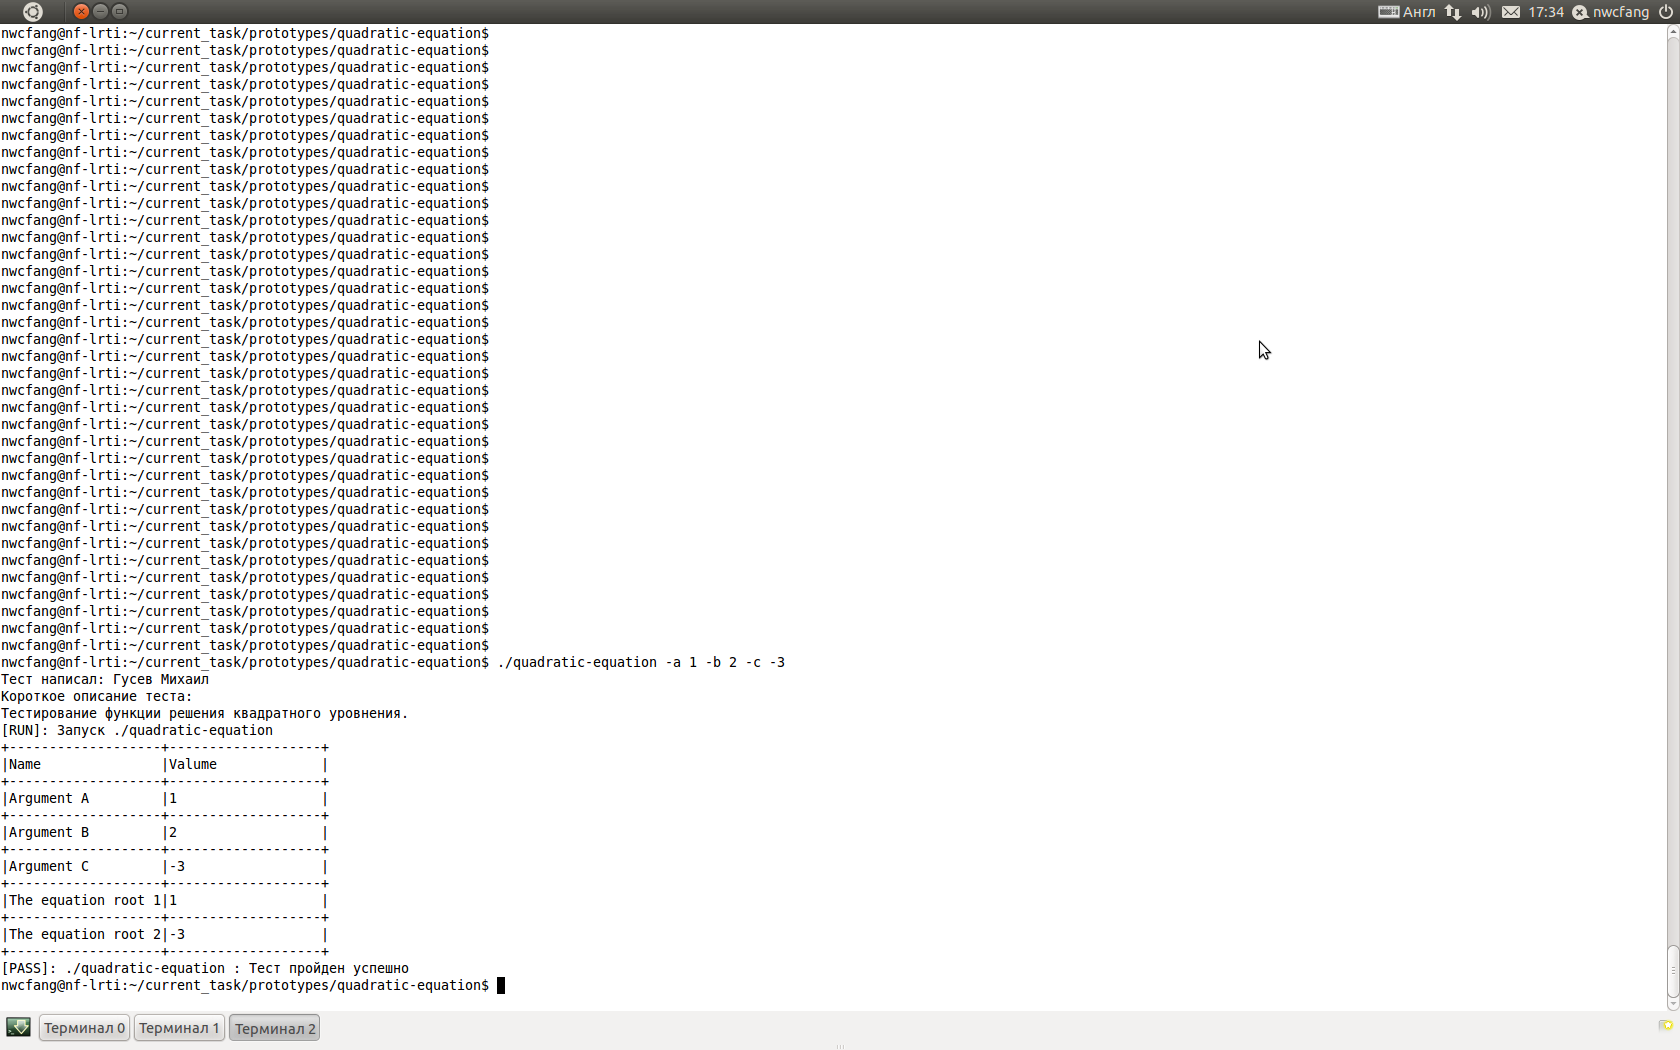
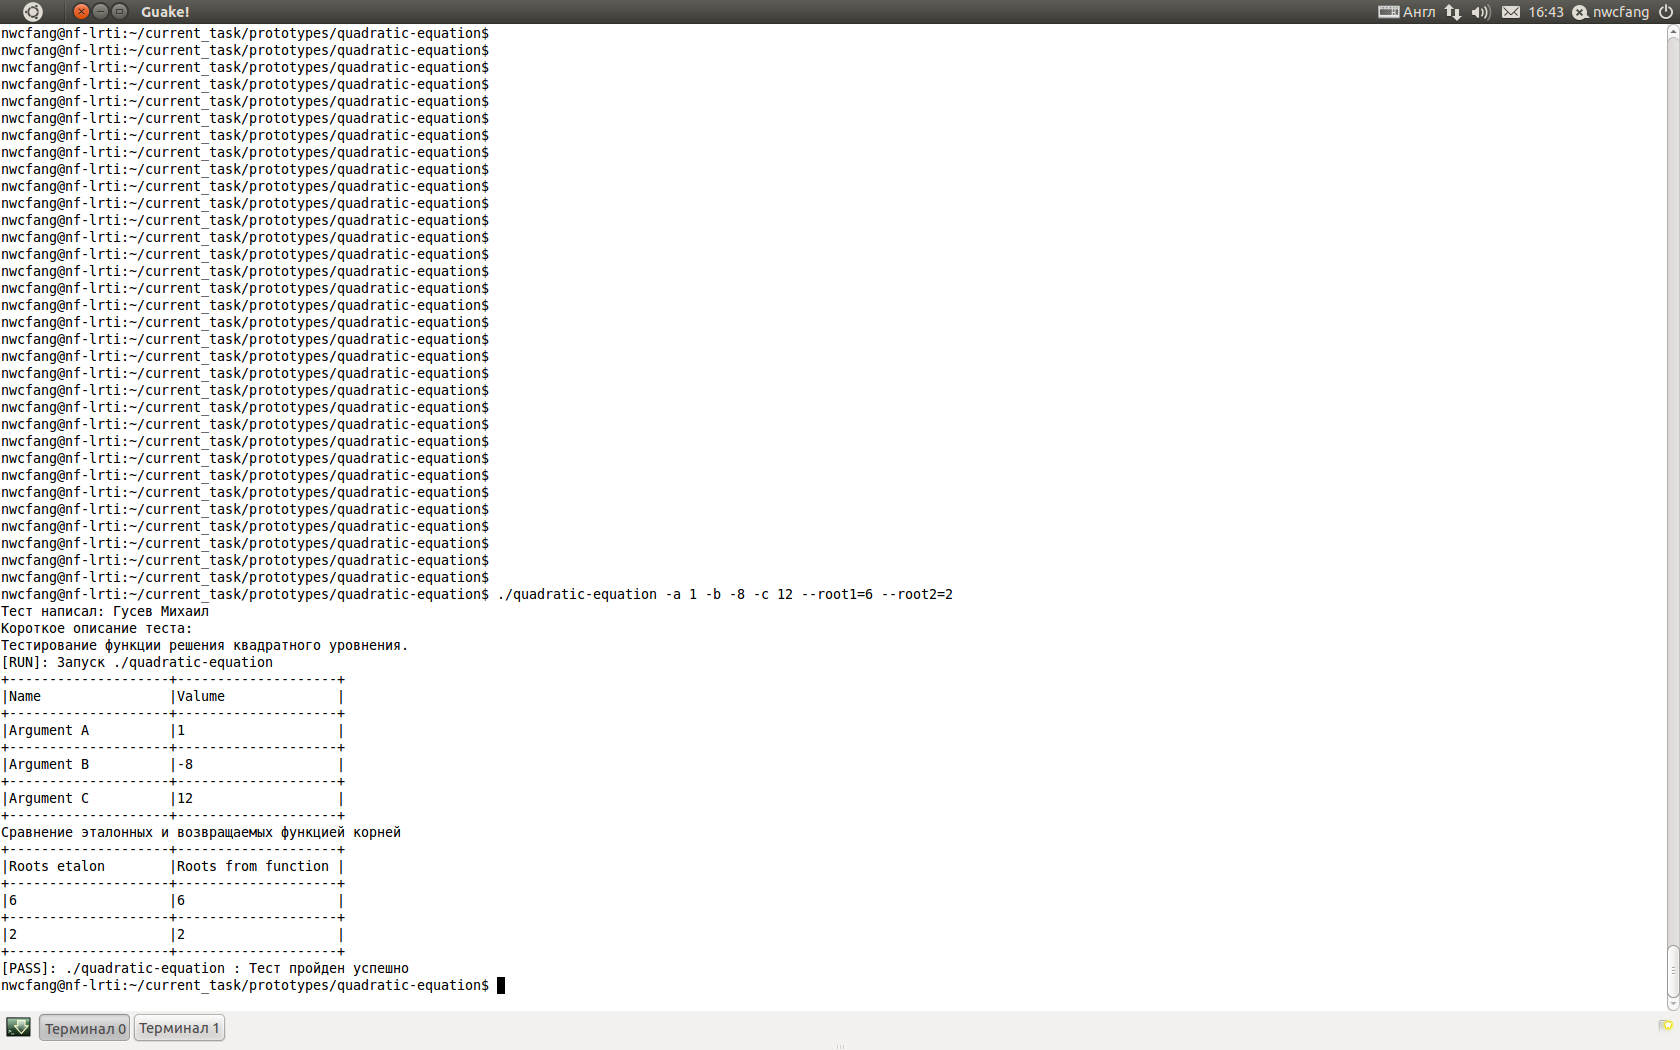
quadratic-equation

diff --git a/prototypes/quadratic-equation/source.c b/prototypes/quadratic-equation/source.c
@@ -3,39 +3,70 @@
 #include <utf.h>
 #include <limits.h>
 #include <stdio.h>
-//#include <stdio.h>
-int main( int argc, const char* argv[] )
-{
-    int myargc = 6;
-    const char* myargv[]  =
-    {
-        argv[0],
-        "-a",
-        "1",
-        "-b",
-        "2",
-        "-c",
-        "-3"
-    };
+#include <math.h>
+/*#include <stdio.h>*/
+
+typedef struct _SRoots {
+    long root1;
+    long root2;
+} SRoots;
+
+/*Решение квадратного уравнения*/
+int quad( long a, long b, long c, SRoots* Roots ) {
+    long d = b * b - 4 * a * c;
+    Roots->root1 = ( -b + sqrt( (double)d ) ) / ( 2 * a );
+    Roots->root2 = ( -b - sqrt( (double)d ) ) / ( 2 * a );
+    return 0;
+}
+
+
+int main( int argc, const char* argv[] ) {
+    SRoots *Roots = malloc( sizeof(SRoots) ); 
+    SRoots *RootsEtalon = malloc( sizeof(SRoots) ); 
+    
+    //int myargc = 6;
+
+    //const char* myargv[] = {
+        //argv[0],
+        //"-a",
+        //"1",
+        //"-b",
+        //"2",
+        //"-c",
+        //"-3"
+    //};
+
     tio_param mypar [] = {
         {"a:", "A", "Параметр А"},
         {"b:", "B", "Параметр B"},
         {"c:", "C","Параметр C"},
+        {"root1:", "ROOT1", "Первый корень"},
+        {"root2:", "ROOT2", "Второй корень"},
         {NULL, NULL, NULL}
     };
-    //tioInit( "alpha", "This is test", mypar, myargc, myargv );
+
     puts( "Тест написал: Гусев Михаил" );
     puts( "Короткое описание теста:\nТестирование функции решения квадратного уровнения." );
     tioInit( "alpha", "This is test", mypar, argc, argv );
+
+    quad( tioGetL( "A" ),tioGetL( "B" ),tioGetL( "C" ), Roots );
     void *td = tioTableBegin( "Name&Valume", TIOSTRING, TIOLONG );
-    //void *td = tioTableBegin( "Решение уравнения вида&Параметр А&Параметр В&Параметр С&Корень 1&Корень 2", TIOSTRING, TIOLONG, TIOLONG, TIOLONG, TIOLONG, TIOLONG );
+
     tioTableRecord( td, "Argument A", tioGetL( "A" ) );
     tioTableRecord( td, "Argument B", tioGetL( "B" ) );
     tioTableRecord( td, "Argument C", tioGetL( "C" ) );
-    tioTableRecord( td, "The equation root 1", 1 );
-    tioTableRecord( td, "The equation root 2", -3 );
+    /*tioTableRecord( td, "The equation root 1", Roots->root1 );*/
+    /*tioTableRecord( td, "The equation root 2", Roots->root2 );*/
     tioTableEnd( td );
+
+    puts( "Сравнение эталонных и возвращаемых функцией корней" ); 
+    td = tioTableBegin( "Roots etalon&Roots from function", TIOLONG, TIOLONG );
+    tioTableRecord( td, tioGetL( "ROOT1" ), Roots->root1 );
+    tioTableRecord( td, tioGetL( "ROOT2" ), Roots->root2 );
+    tioTableEnd( td );
+
     tioFinish( 0 );
+    free(Roots);
     return 0;
     
 }
